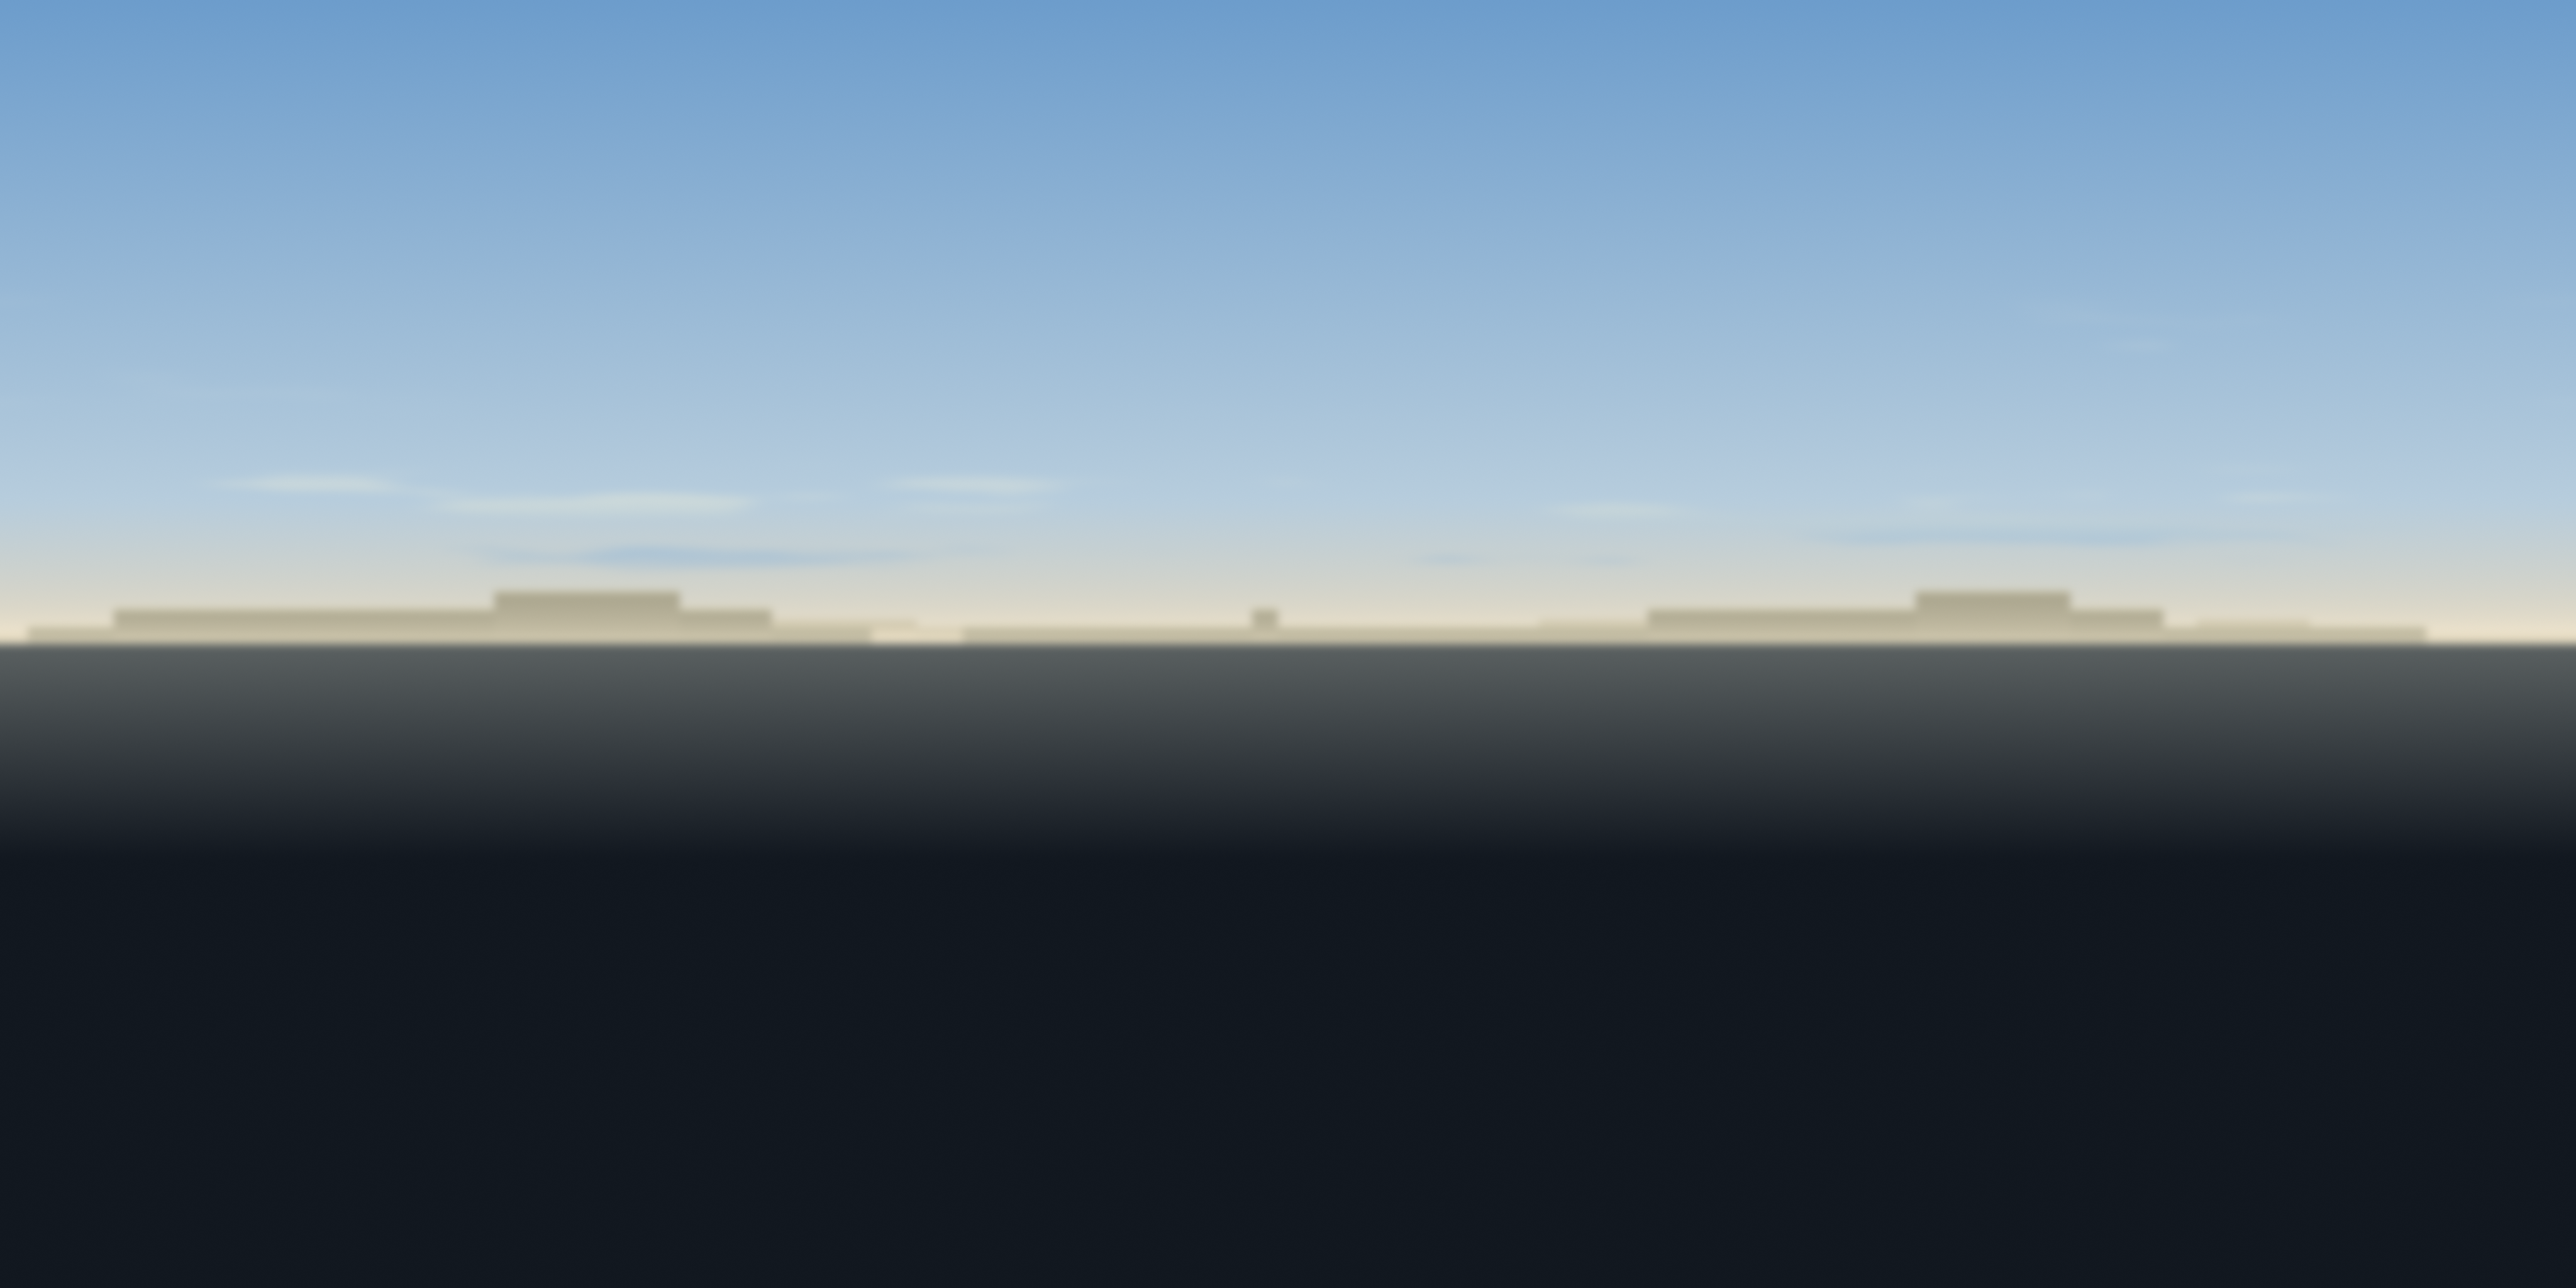
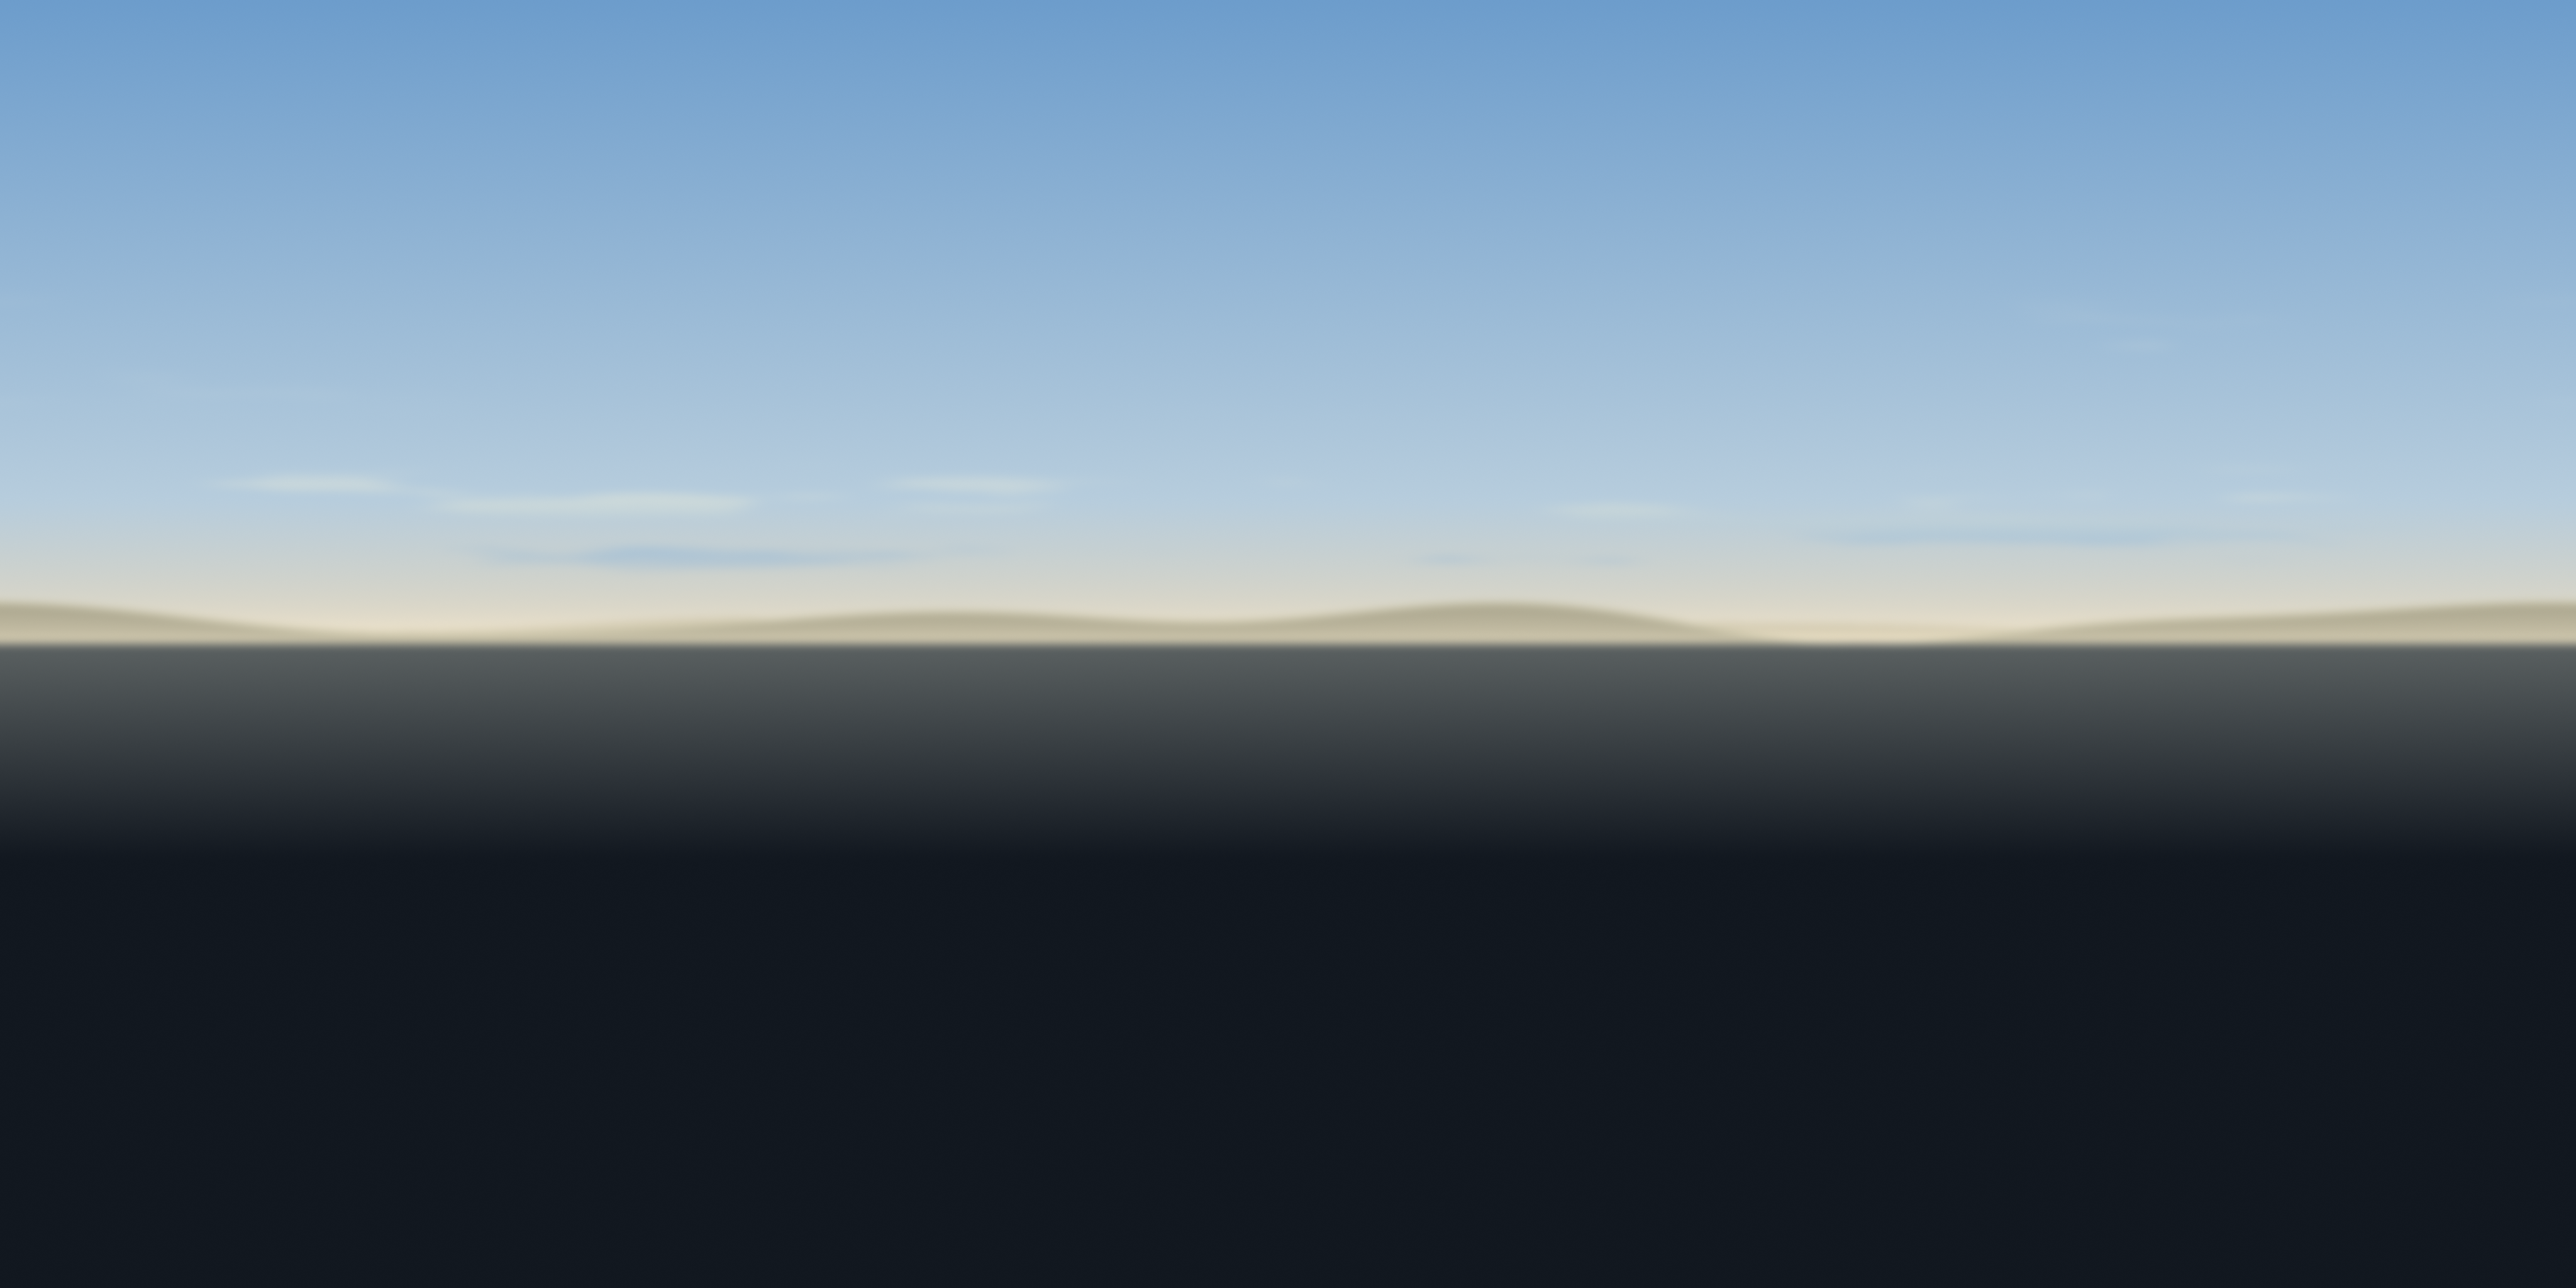
Redo ANGELS FLAT / ANGELS PLAYHOUSE backdrops without boxy terraces
Replaced the quantized flat-top terrace silhouettes with organic shapes:
Angels Flat gets gentle rolling downs under its calm default sky, Angels
Playhouse keeps the golden-hour mood with sweeping rounded highlands and
rim light. terrace() helper replaced by rounded() crest widening.

Changed region(s): [[0.5, 0.4375, 1.0, 0.5], [0.0, 0.4375, 0.4375, 0.5]]

diff --git a/scripts/generate_backdrops.py b/scripts/generate_backdrops.py
@@ -279,9 +279,9 @@ def below_horizon_sea(img: np.ndarray, surface: np.ndarray, deep: np.ndarray) ->
     img[:] = np.where(mask, np.broadcast_to(fill, img.shape), img)
 
 
-def terrace(ridge: np.ndarray, steps: int) -> np.ndarray:
-    """Quantize a [0,1] ridge into flat-topped terraces (plateau motif)."""
-    return np.round(ridge * steps) / steps
+def rounded(profile01: np.ndarray, exponent: float = 0.8) -> np.ndarray:
+    """Widen and round the crests of a [0,1] ridge (organic, never boxy)."""
+    return np.clip(profile01, 0.0, 1.0) ** exponent
 
 
 def _box_blur_x(img: np.ndarray, r: int) -> np.ndarray:
@@ -351,14 +351,15 @@ def large_circle() -> np.ndarray:
 
 
 def angels_flat() -> np.ndarray:
-    """The default preset: today's gradient, alive — cumulus and far mesas."""
+    """The default preset: today's gradient, alive — cumulus over soft downs."""
     rng = np.random.default_rng(202)
     img = sky_gradient([(90.0, SKY_TOP), (20.0, SKY_MID), (0.0, SKY_HORIZON)])
     paint_cloud_layer(img, rng, 8.0, 26.0, mix(SUN_CORE, SKY_MID, 0.25), mix(SKY_MID, SKY_TOP, 0.45), 0.42, cells_x=8, cells_y=5, max_alpha=0.85)
     paint_cloud_layer(img, rng, 30.0, 50.0, mix(SKY_MID, SUN_COLOR, 0.2), SKY_MID, 0.3, cells_x=6, cells_y=3, max_alpha=0.45)
-    far = terrace(harmonic_ridge(rng, range(2, 12), 1.3) * 0.5 + 0.5, 4) * 4.5
+    # Gentle rolling downs: broad low-frequency swells, rounded crests.
+    far = rounded(harmonic_ridge(rng, range(2, 8), 1.3) * 0.5 + 0.5, 0.85) * 3.8
     paint_silhouette(img, far, 0.0, IN_BOUNDS, SKY_HORIZON, 0.82)
-    near = terrace(harmonic_ridge(rng, range(2, 9), 1.25) * 0.5 + 0.5, 3) * 7.5
+    near = rounded(harmonic_ridge(rng, range(2, 6), 1.25) * 0.5 + 0.5, 0.85) * 6.5
     paint_silhouette(img, near, 0.0, mix(IN_BOUNDS, GROUND, 0.5), SKY_HORIZON, 0.66, rim_color=SUN_CORE, rim_strength=0.22, rim_width_deg=0.5)
     paint_horizon_glow(img, SKY_HORIZON, 0.12, 3.0)
     below_horizon_sea(img, mix(WATER, SKY_HORIZON, 0.3), OUT_OF_BOUNDS)
@@ -450,10 +451,14 @@ def angels_playhouse() -> np.ndarray:
     paint_cloud_layer(img, rng, 35.0, 60.0, mix(SUN_CORE, SKY_MID, 0.4), mix(SKY_MID, SUN_HALO, 0.4), 0.3, cells_x=6, cells_y=3, max_alpha=0.45)
     paint_cloud_layer(img, rng, 10.0, 24.0, mix(SUN_CORE, SUN_HALO, 0.35), mix(SUN_HALO, GROUND_PRINT, 0.35), 0.32, cells_x=9, cells_y=4, max_alpha=0.6)
     haze = mix(SUN_HALO, SUN_COLOR, 0.5)
-    behind = terrace(harmonic_ridge(rng, range(2, 20), 1.15) * 0.5 + 0.5, 5) * 8.0
-    paint_silhouette(img, behind, 0.0, mix(ROCKS[7], GROUND_PRINT, 0.4), haze, 0.62, rim_color=SUN_CORE, rim_strength=0.35, rim_width_deg=0.6)
-    towers = terrace(harmonic_ridge(rng, range(2, 14), 1.05) * 0.5 + 0.5, 5) * 14.0
-    paint_silhouette(img, towers, 0.0, mix(GROUND_PRINT, ROCKS[7], 0.35), haze, 0.38, rim_color=SUN_CORE, rim_strength=0.55, rim_width_deg=0.8)
+    # Sweeping organic highlands in three depths — flowing rounded
+    # ridgelines with golden rim light, no hard geometry.
+    farthest = rounded(harmonic_ridge(rng, range(2, 10), 1.2) * 0.5 + 0.5, 0.9) * 5.5
+    paint_silhouette(img, farthest, 0.0, mix(ROCKS[7], SUN_HALO, 0.3), haze, 0.74, rim_color=SUN_CORE, rim_strength=0.25, rim_width_deg=0.7)
+    behind = rounded(harmonic_ridge(rng, range(2, 12), 1.15) * 0.5 + 0.5, 0.82) * 9.0
+    paint_silhouette(img, behind, 0.0, mix(ROCKS[7], GROUND_PRINT, 0.4), haze, 0.58, rim_color=SUN_CORE, rim_strength=0.4, rim_width_deg=0.8)
+    sweep = rounded(harmonic_ridge(rng, range(2, 7), 1.05) * 0.5 + 0.5, 0.75) * 15.0
+    paint_silhouette(img, sweep, 0.0, mix(GROUND_PRINT, ROCKS[7], 0.35), haze, 0.36, rim_color=SUN_CORE, rim_strength=0.6, rim_width_deg=1.1)
     below_horizon_sea(img, mix(WATER, SUN_HALO, 0.35), OUT_OF_BOUNDS)
     return img
 
